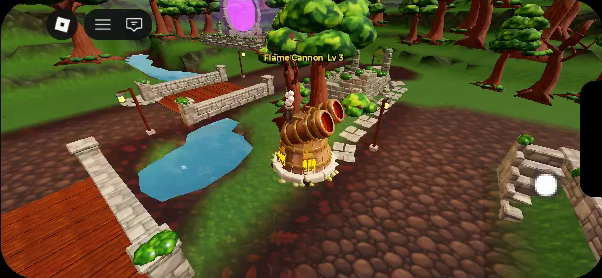
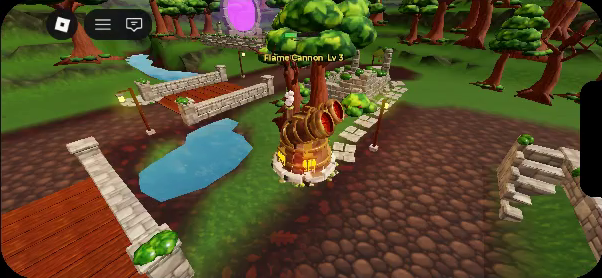
Flame Cannon levels 2-3: layered fire in the bores (rules pass, wins the blind Codex judge)
Deep red flame tongues round each bore's wall, deep orange ones inside them, a small bright core; all inside the bore,
one glowing part per layer. The bake's layout is unchanged, so the painted sheets stay. Film ff1: bright
yellow-orange 3.8 % / 8.3 % (gate 15 %), dark-bore gate passes, no face read. Blind Codex: after beats before on
level 2 (6 vs 5) and level 3 (6 vs 5). Before/after: reviews/towers/review/flame_2026-11-27_fire_before_after.png.

diff --git a/art/blender/tower_flame_detail.py b/art/blender/tower_flame_detail.py
@@ -33,6 +33,8 @@ BRONZE_DARK = (0.4, 0.24, 0.15)   # (level 3's dark bronze-brown barrels and rim
 BARREL_L2 = (0.72, 0.44, 0.26)   # (a lighter bronze, so level 2's barrel stands out from the drum at phone size)
 FIRE = (1.0, 0.55, 0.12)
 COAL = (0.16, 0.15, 0.16)
+# (2026-11-26) layered flame tongues in the lit bores; HTD_FIRE_LAYERS=0 builds the earlier single core
+FIRE_LAYERS = os.environ.get("HTD_FIRE_LAYERS", "1") != "0"
 
 DEFAULTS = {
     1: dict(foot_r=3.2, foot_h=0.9, foot_n=10, cradle=2.2, barrel_r=1.15, barrel_len=3.0, tilt=38, barrel_z=2.4, aim=55),
@@ -124,7 +126,33 @@ def barrel(name, frame, r, length, color, bands=3, rivets=True, fire=True, thin=
     if fire and (thin or core):
         # (the glow only deep in the bore: a small orange core about a third of the bore's width)
         # (a small bright core deep inside, glowing)
-        core = K.ball(name + "Core", (0, 0, length * 0.63), r * 0.22, (1.0, 0.78, 0.3), seg=10)
+        # (2026-11-26, coordinator: layered fire, as painted: deep red tongues round the bore's wall, deep orange ones
+        # inside them, a small bright core; all inside the bore (the face-read and dark-bore gates see the same
+        # opening), the yellow kept to the small core for the 15 % gate)
+        if FIRE_LAYERS:
+            import random
+            frng = random.Random(len(name))
+            for layer, (n_, rr_, hh_, col) in enumerate(((6, 0.24, 0.2, (0.62, 0.09, 0.04)), (4, 0.17, 0.17, (0.86, 0.24, 0.04)))):
+                made_ = []
+                for k_ in range(n_):
+                    ang = 2 * math.pi * (k_ + 0.5 * layer) / n_ + frng.uniform(-0.2, 0.2)
+                    off = r * (0.45 if layer == 0 else 0.22)
+                    base_ = Vector((math.cos(ang) * off, math.sin(ang) * off, length * 0.625))
+                    tip = base_ + Vector((-math.cos(ang) * off * 0.35, -math.sin(ang) * off * 0.35, length * hh_ * frng.uniform(0.85, 1.1)))
+                    tn = name + f"Tongue{layer}{k_}"
+                    K.limb(tn, tuple(base_), tuple(tip), r * rr_, r * 0.02, col, verts=6, end=False)
+                    t_ = bpy.data.objects[tn]
+                    t_.matrix_world = frame @ t_.matrix_world
+                    made_.append(t_)
+                # (one glowing part per layer, not one per tongue)
+                bpy.ops.object.select_all(action="DESELECT")
+                for t_ in made_:
+                    t_.select_set(True)
+                bpy.context.view_layer.objects.active = made_[0]
+                bpy.ops.object.join()
+                made_[0].name = name + f"Tongues{layer}"
+                S.glow(made_[0], col)
+        core = K.ball(name + "Core", (0, 0, length * 0.64), r * (0.14 if FIRE_LAYERS else 0.22), (1.0, 0.78, 0.3), seg=10)
         core.matrix_world = frame @ core.matrix_world
         S.glow(core, (1.0, 0.78, 0.3))
     elif fire:
